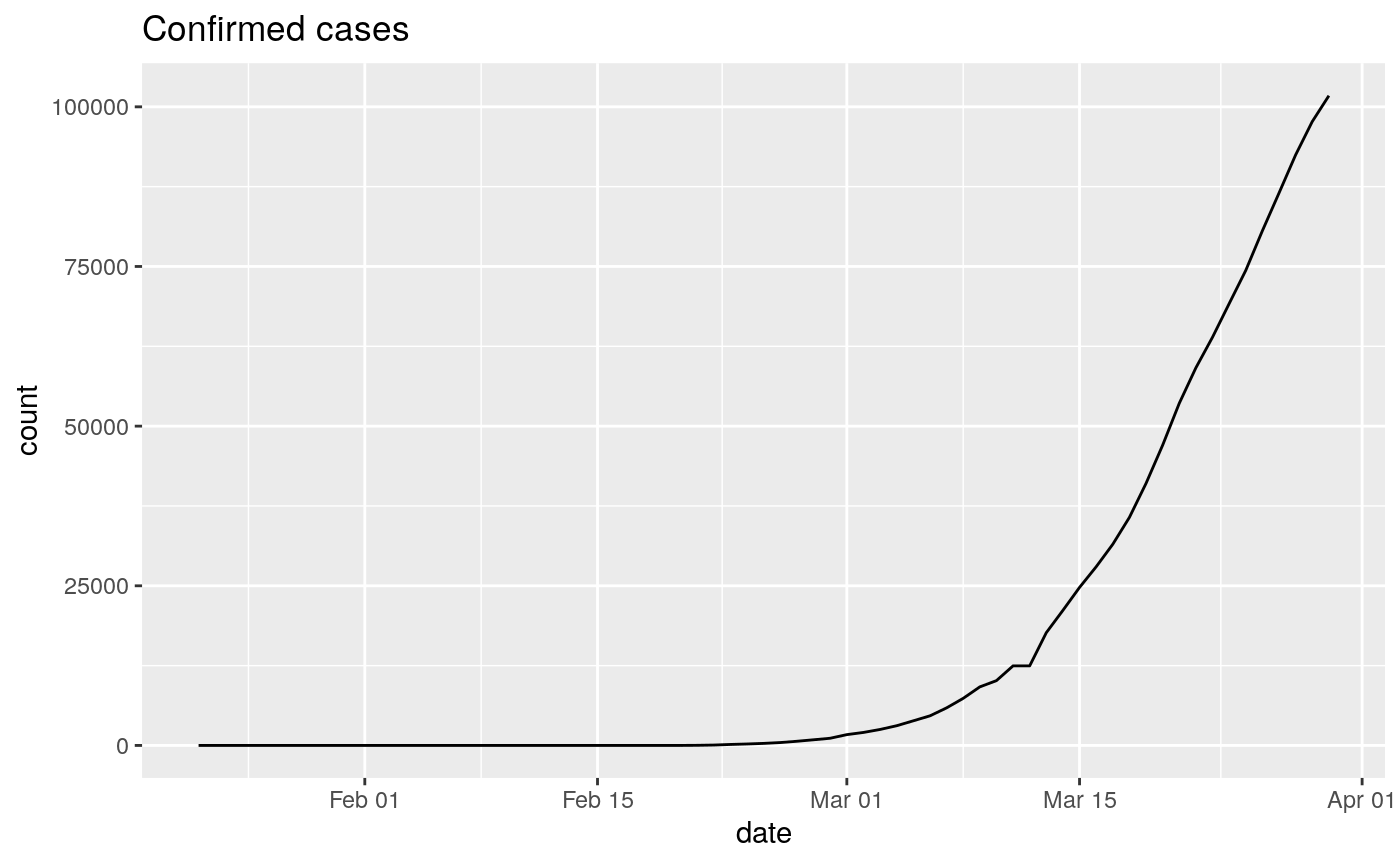
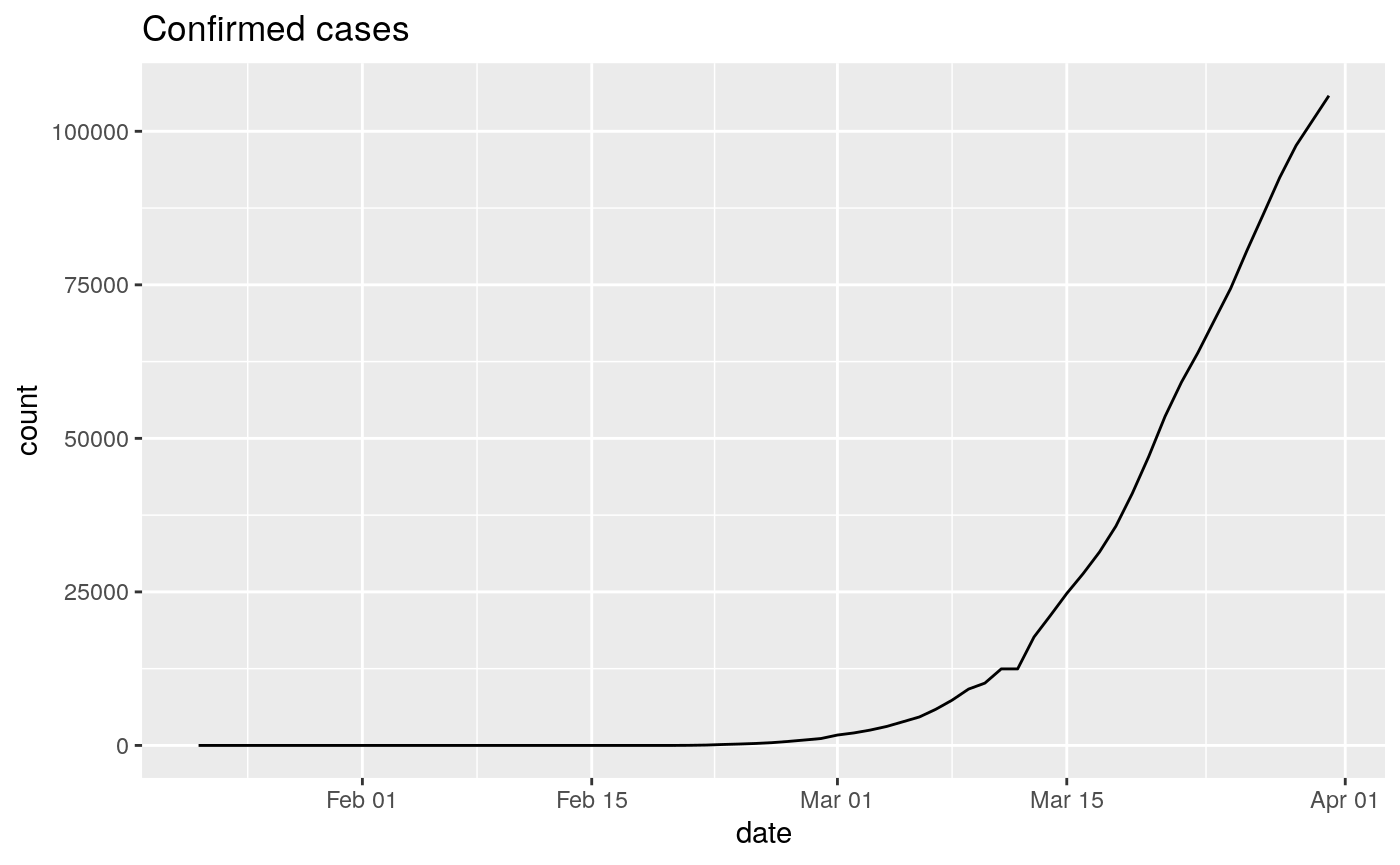
Deploying to gh-pages from  @ e3c42bbe8d9de7d2e896ce2c8601e3526ad87e3b 🚀

diff --git a/articles/sars2pack.html b/articles/sars2pack.html
@@ -86,7 +86,7 @@
       <h1 data-toc-skip>Exploring the COVID-19 pandemic using sars2pack</h1>
                         <h4 class="author">Sean Davis <a href="mailto:seandavi@gmail.com" class="email">seandavi@gmail.com</a> and Vincent J. Carey, stvjc at channing.harvard.edu</h4>
             
-            <h4 class="date">March 31, 2020</h4>
+            <h4 class="date">April 01, 2020</h4>
       
       <small class="dont-index">Source: <a href="https://github.com/seandavi/sars2pack/blob/master/vignettes/sars2pack.Rmd"><code>vignettes/sars2pack.Rmd</code></a></small>
       <div class="hidden name"><code>sars2pack.Rmd</code></div>
@@ -163,7 +163,7 @@
 <span class="fu"><a href="https://rdrr.io/r/base/class.html">class</a></span>(<span class="no">jhu</span>)</pre></body></html></div>
 <pre><code>## [1] "tbl_df"     "tbl"        "data.frame"</code></pre>
 <div class="sourceCode" id="cb4"><html><body><pre class="r"><span class="fu"><a href="https://rdrr.io/r/base/dim.html">dim</a></span>(<span class="no">jhu</span>)</pre></body></html></div>
-<pre><code>## [1] 35052     7</code></pre>
+<pre><code>## [1] 35840     7</code></pre>
 <p>Column names include:</p>
 <div class="sourceCode" id="cb6"><html><body><pre class="r"><span class="fu"><a href="https://rdrr.io/r/base/colnames.html">colnames</a></span>(<span class="no">jhu</span>)</pre></body></html></div>
 <pre><code>## [1] "ProvinceState" "CountryRegion" "Lat"           "Long"         
@@ -181,11 +181,11 @@
 <h3 class="hasAnchor">
 <a href="#usafacts-dataset" class="anchor"></a>USAFacts Dataset</h3>
 <div class="sourceCode" id="cb10"><html><body><pre class="r"><span class="no">usa_facts</span> <span class="kw">=</span> <span class="fu"><a href="../reference/usa_facts_data.html">usa_facts_data</a></span>()</pre></body></html></div>
-<pre><code>## using temporary cache /tmp/RtmpnPCkWf/BiocFileCache</code></pre>
+<pre><code>## using temporary cache /tmp/RtmpY2dX5Z/BiocFileCache</code></pre>
 <div class="sourceCode" id="cb12"><html><body><pre class="r"><span class="fu"><a href="https://rdrr.io/r/base/class.html">class</a></span>(<span class="no">usa_facts</span>)</pre></body></html></div>
 <pre><code>## [1] "tbl_df"     "tbl"        "data.frame"</code></pre>
 <div class="sourceCode" id="cb14"><html><body><pre class="r"><span class="fu"><a href="https://rdrr.io/r/base/dim.html">dim</a></span>(<span class="no">usa_facts</span>)</pre></body></html></div>
-<pre><code>## [1] 441186      7</code></pre>
+<pre><code>## [1] 882096      7</code></pre>
 <p>Column names include:</p>
 <div class="sourceCode" id="cb16"><html><body><pre class="r"><span class="fu"><a href="https://rdrr.io/r/base/colnames.html">colnames</a></span>(<span class="no">usa_facts</span>)</pre></body></html></div>
 <pre><code>## [1] "county_fips" "state"       "State"       "state_fips"  "subset"     
@@ -249,12 +249,12 @@
 <li><strong>How many records are in the dataset?</strong></li>
 </ul>
 <div class="sourceCode" id="cb36"><html><body><pre class="r"><span class="fu"><a href="https://rdrr.io/r/base/nrow.html">nrow</a></span>(<span class="no">jhu</span>)</pre></body></html></div>
-<pre><code>## [1] 35052</code></pre>
+<pre><code>## [1] 35840</code></pre>
 <ul>
 <li><strong>How many different countries are represented?</strong></li>
 </ul>
 <div class="sourceCode" id="cb38"><html><body><pre class="r"><span class="fu"><a href="https://rdrr.io/r/base/length.html">length</a></span>(<span class="fu"><a href="https://rdrr.io/r/base/unique.html">unique</a></span>(<span class="no">jhu</span>$<span class="no">CountryRegion</span>))</pre></body></html></div>
-<pre><code>## [1] 178</code></pre>
+<pre><code>## [1] 180</code></pre>
 <p>Most records have no listing for <code>ProvinceState</code> column. Let’s look at a few of those to get an idea of what is there when not empty:</p>
 <ul>
 <li><strong>What is in the <code>ProvinceState</code> column?</strong></li>
@@ -290,8 +290,8 @@
     <span class="kw pkg">dplyr</span><span class="kw ns">::</span><span class="fu"><a href="https://dplyr.tidyverse.org/reference/slice.html">slice</a></span>(<span class="fu"><a href="https://rdrr.io/r/base/which.min.html">which.max</a></span>(<span class="no">date</span>)) <span class="kw">%&gt;%</span>
     <span class="kw pkg">dplyr</span><span class="kw ns">::</span><span class="fu"><a href="https://dplyr.tidyverse.org/reference/arrange.html">arrange</a></span>(<span class="fu">desc</span>(<span class="no">count</span>))
 <span class="kw pkg">DT</span><span class="kw ns">::</span><span class="fu"><a href="https://rdrr.io/pkg/DT/man/datatable.html">datatable</a></span>(<span class="no">latest_jhu_data</span>, <span class="kw">rownames</span><span class="kw">=</span><span class="fl">FALSE</span>)</pre></body></html></div>
-<div id="htmlwidget-8c06b6ed5150550f0219" style="width:100%;height:auto;" class="datatables html-widget"></div>
-<script type="application/json" data-for="htmlwidget-8c06b6ed5150550f0219">{"x":{"filter":"none","data":[[null,null,null,null,null,null,null,null,null,null,null,null,null,null,null,null,null,null,null,null,null,null,null,null,null,null,null,null,null,null,null,null,null,null,null,null,null,null,null,null,null,null,null,null,null,null,null,null,null,null,null,null,null,null,null,null,null,null,null,null,null,null,null,null,null,null,null,null,null,null,null,null,null,null,null,null,null,null,null,null,null,null,null,null,null,null,null,null,null,null,null,null,null,null,null,null,null,null,null,null,null,null,null,null,null,null,null,null,null,null,null,null,null,null,null,null,null,null,null,null,null,null,null,null,null,null,null,null,null,null,null,null,null,null,null,null,null,null,null,null,null,null,null,null,null,null,null,null,null,null,null,null,null,null,null,null,null,null,null,null,null,null,null,null,null,null,null,null,null,null,null,null,null,null,null],["US","Italy","Spain","Germany","France","Iran","United Kingdom","Switzerland","Belgium","Netherlands","Turkey","Korea, South","Austria","Portugal","Israel","Brazil","Norway","Sweden","Czechia","Ireland","Malaysia","Denmark","Chile","Romania","Poland","Luxembourg","Ecuador","Japan","Russia","Pakistan","Philippines","Thailand","Saudi Arabia","Indonesia","Finland","South Africa","India","Greece","Iceland","Mexico","Panama","Peru","Dominican Republic","Singapore","Argentina","Colombia","Croatia","Serbia","Slovenia","Estonia","Diamond Princess","Qatar","Egypt","Iraq","United Arab Emirates","New Zealand","Algeria","Morocco","Ukraine","Bahrain","Lithuania","Armenia","Hungary","Lebanon","Latvia","Andorra","Bosnia and Herzegovina","Bulgaria","Slovakia","Costa Rica","Tunisia","Uruguay","Taiwan*","Kazakhstan","Moldova","North Macedonia","Azerbaijan","Jordan","Kuwait","Burkina Faso","Cyprus","San Marino","Albania","Vietnam","Oman","Afghanistan","Cuba","Cote d'Ivoire","Senegal","Malta","Belarus","Ghana","Uzbekistan","Cameroon","Honduras","Venezuela","Nigeria","Mauritius","Brunei","Sri Lanka","West Bank and Gaza","Cambodia","Georgia","Bolivia","Kosovo","Kyrgyzstan","Montenegro","Trinidad and Tobago","Congo (Kinshasa)","Rwanda","Paraguay","Liechtenstein","Kenya","Bangladesh","Monaco","Madagascar","Guatemala","Jamaica","Zambia","Barbados","Uganda","El Salvador","Togo","Niger","Mali","Ethiopia","Guinea","Congo (Brazzaville)","Tanzania","Djibouti","Maldives","Haiti","Bahamas","Burma","Equatorial Guinea","Eritrea","Mongolia","Dominica","Namibia","Syria","Eswatini","Grenada","Saint Lucia","Guinea-Bissau","Guyana","Laos","Libya","Mozambique","Seychelles","Suriname","Angola","Antigua and Barbuda","Gabon","Saint Kitts and Nevis","Zimbabwe","Benin","Cabo Verde","Holy See","Sudan","Chad","Fiji","Mauritania","Nepal","Bhutan","Gambia","Nicaragua","Belize","Botswana","Central African Republic","Liberia","Somalia","MS Zaandam","Papua New Guinea","Saint Vincent and the Grenadines","Timor-Leste"],[37.0902,43,40,51,46.2276,32,55.3781,46.8182,50.8333,52.1326,38.9637,36,47.5162,39.3999,31,-14.235,60.472,63,49.8175,53.1424,2.5,56.2639,-35.6751,45.9432,51.9194,49.8153,-1.8312,36,60,30.3753,13,15,24,-0.7893,64,-30.5595,21,39.0742,64.9631,23.6345,8.538,-9.19,18.7357,1.2833,-38.4161,4.5709,45.1,44.0165,46.1512,58.5953,0,25.3548,26,33,24,-40.9006,28.0339,31.7917,48.3794,26.0275,55.1694,40.0691,47.1625,33.8547,56.8796,42.5063,43.9159,42.7339,48.669,9.7489,34,-32.5228,23.7,48.0196,47.4116,41.6086,40.1431,31.24,29.5,12.2383,35.1264,43.9424,41.1533,16,21,33,22,7.54,14.4974,35.9375,53.7098,7.9465,41.3775,3.848,15.2,6.4238,9.082,-20.2,4.5353,7,31.9522,11.55,42.3154,-16.2902,42.602636,41.2044,42.5,10.6918,-4.0383,-1.9403,-23.4425,47.14,-0.0236,23.685,43.7333,-18.7669,15.7835,18.1096,-15.4167,13.1939,1,13.7942,8.6195,17.6078,17.570692,9.145,9.9456,-4.0383,-6.369,11.8251,3.2028,18.9712,25.0343,21.9162,1.5,15.1794,46.8625,15.415,-22.9576,34.802075,-26.5225,12.1165,13.9094,11.8037,5,19.85627,26.3351,-18.665695,-4.6796,3.9193,-11.2027,17.0608,-0.8037,17.357822,-20,9.3077,16.5388,41.9029,12.8628,15.4542,-17.7134,21.0079,28.1667,27.5142,13.4432,12.8654,13.1939,-22.3285,6.6111,6.4281,5.1521,0,-6.315,12.9843,-8.874217],[-95.7129,12,-4,9,2.2137,53,-3.436,8.2275,4,5.2913,35.2433,128,14.5501,-8.2245,35,-51.9253,8.4689,16,15.473,-7.6921,112.5,9.5018,-71.543,24.9668,19.1451,6.1296,-78.1834,138,90,69.3451,122,101,45,113.9213,26,22.9375,78,21.8243,-19.0208,-102.5528,-80.7821,-75.0152,-70.1627,103.8333,-63.6167,-74.2973,15.2,21.0059,14.9955,25.0136,0,51.1839,30,44,54,174.886,1.6596,-7.0926,31.1656,50.55,23.8813,45.0382,19.5033,35.8623,24.6032,1.5218,17.6791,25.4858,19.699,-83.7534,9,-55.7658,121,66.9237,28.3699,21.7453,47.5769,36.51,47.75,-1.5616,33.4299,12.4578,20.1683,108,57,65,-80,-5.5471,-14.4524,14.3754,27.9534,-1.0232,64.5853,11.5021,-86.2419,-66.5897,8.6753,57.5,114.7277,81,35.2332,104.9167,43.3569,-63.5887,20.902977,74.7661,19.3,-61.2225,21.7587,29.8739,-58.4438,9.55,37.9062,90.3563,7.4167,46.8691,-90.2308,-77.2975,28.2833,-59.5432,32,-88.8965,0.8248,8.0817,-3.996166,40.4897,-9.6966,21.7587,34.8888,42.5903,73.2207,-72.2852,-77.3963,95.956,10,39.7823,103.8467,-61.371,18.4904,38.996815,31.4659,-61.679,-60.9789,-15.1804,-58.75,102.495496,17.228331,35.529562,55.492,-56.0278,17.8739,-61.7964,11.6094,-62.782998,30,2.3158,-23.0418,12.4534,30.2176,18.7322,178.065,10.9408,84.25,90.4336,-15.3101,-85.2072,-59.5432,24.6849,20.9394,-9.4295,46.1996,0,143.9555,-61.2872,125.727539],["2020-03-30","2020-03-30","2020-03-30","2020-03-30","2020-03-30","2020-03-30","2020-03-30","2020-03-30","2020-03-30","2020-03-30","2020-03-30","2020-03-30","2020-03-30","2020-03-30","2020-03-30","2020-03-30","2020-03-30","2020-03-30","2020-03-30","2020-03-30","2020-03-30","2020-03-30","2020-03-30","2020-03-30","2020-03-30","2020-03-30","2020-03-30","2020-03-30","2020-03-30","2020-03-30","2020-03-30","2020-03-30","2020-03-30","2020-03-30","2020-03-30","2020-03-30","2020-03-30","2020-03-30","2020-03-30","2020-03-30","2020-03-30","2020-03-30","2020-03-30","2020-03-30","2020-03-30","2020-03-30","2020-03-30","2020-03-30","2020-03-30","2020-03-30","2020-03-30","2020-03-30","2020-03-30","2020-03-30","2020-03-30","2020-03-30","2020-03-30","2020-03-30","2020-03-30","2020-03-30","2020-03-30","2020-03-30","2020-03-30","2020-03-30","2020-03-30","2020-03-30","2020-03-30","2020-03-30","2020-03-30","2020-03-30","2020-03-30","2020-03-30","2020-03-30","2020-03-30","2020-03-30","2020-03-30","2020-03-30","2020-03-30","2020-03-30","2020-03-30","2020-03-30","2020-03-30","2020-03-30","2020-03-30","2020-03-30","2020-03-30","2020-03-30","2020-03-30","2020-03-30","2020-03-30","2020-03-30","2020-03-30","2020-03-30","2020-03-30","2020-03-30","2020-03-30","2020-03-30","2020-03-30","2020-03-30","2020-03-30","2020-03-30","2020-03-30","2020-03-30","2020-03-30","2020-03-30","2020-03-30","2020-03-30","2020-03-30","2020-03-30","2020-03-30","2020-03-30","2020-03-30","2020-03-30","2020-03-30","2020-03-30","2020-03-30","2020-03-30","2020-03-30","2020-03-30","2020-03-30","2020-03-30","2020-03-30","2020-03-30","2020-03-30","2020-03-30","2020-03-30","2020-03-30","2020-03-30","2020-03-30","2020-03-30","2020-03-30","2020-03-30","2020-03-30","2020-03-30","2020-03-30","2020-03-30","2020-03-30","2020-03-30","2020-03-30","2020-03-30","2020-03-30","2020-03-30","2020-03-30","2020-03-30","2020-03-30","2020-03-30","2020-03-30","2020-03-30","2020-03-30","2020-03-30","2020-03-30","2020-03-30","2020-03-30","2020-03-30","2020-03-30","2020-03-30","2020-03-30","2020-03-30","2020-03-30","2020-03-30","2020-03-30","2020-03-30","2020-03-30","2020-03-30","2020-03-30","2020-03-30","2020-03-30","2020-03-30","2020-03-30","2020-03-30","2020-03-30","2020-03-30","2020-03-30","2020-03-30","2020-03-30"],[161807,101739,87956,66885,44550,41495,22141,15922,11899,11750,10827,9661,9618,6408,4695,4579,4445,4028,3001,2910,2626,2577,2449,2109,2055,1988,1962,1866,1836,1717,1546,1524,1453,1414,1352,1326,1251,1212,1086,993,989,950,901,879,820,798,790,785,756,715,712,693,656,630,611,589,584,556,548,515,491,482,447,446,376,370,368,359,336,330,312,310,306,302,298,285,273,268,266,246,230,230,223,203,179,170,170,168,162,156,152,152,149,139,139,135,131,128,127,122,116,107,103,97,94,94,91,82,81,70,64,62,50,49,49,43,36,36,35,33,33,30,30,27,25,23,22,19,19,18,17,15,14,14,12,12,12,11,11,10,9,9,9,8,8,8,8,8,8,8,7,7,7,7,7,6,6,6,6,5,5,5,5,4,4,4,3,3,3,3,3,2,1,1,1],["confirmed","confirmed","confirmed","confirmed","confirmed","confirmed","confirmed","confirmed","confirmed","confirmed","confirmed","confirmed","confirmed","confirmed","confirmed","confirmed","confirmed","confirmed","confirmed","confirmed","confirmed","confirmed","confirmed","confirmed","confirmed","confirmed","confirmed","confirmed","confirmed","confirmed","confirmed","confirmed","confirmed","confirmed","confirmed","confirmed","confirmed","confirmed","confirmed","confirmed","confirmed","confirmed","confirmed","confirmed","confirmed","confirmed","confirmed","confirmed","confirmed","confirmed","confirmed","confirmed","confirmed","confirmed","confirmed","confirmed","confirmed","confirmed","confirmed","confirmed","confirmed","confirmed","confirmed","confirmed","confirmed","confirmed","confirmed","confirmed","confirmed","confirmed","confirmed","confirmed","confirmed","confirmed","confirmed","confirmed","confirmed","confirmed","confirmed","confirmed","confirmed","confirmed","confirmed","confirmed","confirmed","confirmed","confirmed","confirmed","confirmed","confirmed","confirmed","confirmed","confirmed","confirmed","confirmed","confirmed","confirmed","confirmed","confirmed","confirmed","confirmed","confirmed","confirmed","confirmed","confirmed","confirmed","confirmed","confirmed","confirmed","confirmed","confirmed","confirmed","confirmed","confirmed","confirmed","confirmed","confirmed","confirmed","confirmed","confirmed","confirmed","confirmed","confirmed","confirmed","confirmed","confirmed","confirmed","confirmed","confirmed","confirmed","confirmed","confirmed","confirmed","confirmed","confirmed","confirmed","confirmed","confirmed","confirmed","confirmed","confirmed","confirmed","confirmed","confirmed","confirmed","confirmed","confirmed","confirmed","confirmed","confirmed","confirmed","confirmed","confirmed","confirmed","confirmed","confirmed","confirmed","confirmed","confirmed","confirmed","confirmed","confirmed","confirmed","confirmed","confirmed","confirmed","confirmed","confirmed","confirmed","confirmed","confirmed","confirmed","confirmed","confirmed","confirmed"]],"container":"<table class=\"display\">\n  <thead>\n    <tr>\n      <th>ProvinceState<\/th>\n      <th>CountryRegion<\/th>\n      <th>Lat<\/th>\n      <th>Long<\/th>\n      <th>date<\/th>\n      <th>count<\/th>\n      <th>subset<\/th>\n    <\/tr>\n  <\/thead>\n<\/table>","options":{"columnDefs":[{"className":"dt-right","targets":[2,3,5]}],"order":[],"autoWidth":false,"orderClasses":false}},"evals":[],"jsHooks":[]}</script><p><strong>Note</strong>: I included a little <code>is.na</code> in the filtering above to remove records where country data are split out over subparts. We revisit this below.</p>
+<div id="htmlwidget-5872c2ad368f4b4c4cd0" style="width:100%;height:auto;" class="datatables html-widget"></div>
+<script type="application/json" data-for="htmlwidget-5872c2ad368f4b4c4cd0">{"x":{"filter":"none","data":[[null,null,null,null,null,null,null,null,null,null,null,null,null,null,null,null,null,null,null,null,null,null,null,null,null,null,null,null,null,null,null,null,null,null,null,null,null,null,null,null,null,null,null,null,null,null,null,null,null,null,null,null,null,null,null,null,null,null,null,null,null,null,null,null,null,null,null,null,null,null,null,null,null,null,null,null,null,null,null,null,null,null,null,null,null,null,null,null,null,null,null,null,null,null,null,null,null,null,null,null,null,null,null,null,null,null,null,null,null,null,null,null,null,null,null,null,null,null,null,null,null,null,null,null,null,null,null,null,null,null,null,null,null,null,null,null,null,null,null,null,null,null,null,null,null,null,null,null,null,null,null,null,null,null,null,null,null,null,null,null,null,null,null,null,null,null,null,null,null,null,null,null,null,null,null,null,null],["US","Italy","Spain","Germany","France","Iran","United Kingdom","Switzerland","Turkey","Belgium","Netherlands","Austria","Korea, South","Portugal","Brazil","Israel","Norway","Sweden","Czechia","Ireland","Denmark","Malaysia","Chile","Russia","Poland","Romania","Ecuador","Luxembourg","Philippines","Japan","Pakistan","Thailand","Saudi Arabia","Indonesia","Finland","India","South Africa","Greece","Panama","Iceland","Dominican Republic","Mexico","Peru","Argentina","Singapore","Colombia","Serbia","Croatia","Slovenia","Qatar","Estonia","Algeria","Diamond Princess","Egypt","Iraq","United Arab Emirates","New Zealand","Ukraine","Morocco","Bahrain","Lithuania","Armenia","Hungary","Lebanon","Bosnia and Herzegovina","Bulgaria","Latvia","Tunisia","Andorra","Slovakia","Moldova","Costa Rica","Kazakhstan","Uruguay","North Macedonia","Taiwan*","Azerbaijan","Kuwait","Jordan","Cyprus","Burkina Faso","Albania","San Marino","Vietnam","Cameroon","Oman","Cuba","Cote d'Ivoire","Senegal","Afghanistan","Uzbekistan","Malta","Ghana","Belarus","Mauritius","Sri Lanka","Honduras","Nigeria","Venezuela","Brunei","West Bank and Gaza","Kosovo","Georgia","Cambodia","Montenegro","Bolivia","Kyrgyzstan","Congo (Kinshasa)","Trinidad and Tobago","Rwanda","Liechtenstein","Paraguay","Kenya","Madagascar","Monaco","Bangladesh","Uganda","Guatemala","Jamaica","Zambia","Barbados","Togo","El Salvador","Djibouti","Mali","Niger","Ethiopia","Guinea","Congo (Brazzaville)","Tanzania","Maldives","Gabon","Burma","Eritrea","Haiti","Bahamas","Saint Lucia","Dominica","Equatorial Guinea","Guyana","Mongolia","Namibia","Libya","Seychelles","Syria","Benin","Eswatini","Grenada","Laos","Suriname","Guinea-Bissau","Mozambique","Saint Kitts and Nevis","Zimbabwe","Angola","Antigua and Barbuda","Chad","Sudan","Cabo Verde","Holy See","Mauritania","Fiji","Nepal","Nicaragua","Somalia","Bhutan","Botswana","Gambia","Belize","Central African Republic","Liberia","Burundi","MS Zaandam","Papua New Guinea","Saint Vincent and the Grenadines","Sierra Leone","Timor-Leste"],[37.0902,43,40,51,46.2276,32,55.3781,46.8182,38.9637,50.8333,52.1326,47.5162,36,39.3999,-14.235,31,60.472,63,49.8175,53.1424,56.2639,2.5,-35.6751,60,51.9194,45.9432,-1.8312,49.8153,13,36,30.3753,15,24,-0.7893,64,21,-30.5595,39.0742,8.538,64.9631,18.7357,23.6345,-9.19,-38.4161,1.2833,4.5709,44.0165,45.1,46.1512,25.3548,58.5953,28.0339,0,26,33,24,-40.9006,48.3794,31.7917,26.0275,55.1694,40.0691,47.1625,33.8547,43.9159,42.7339,56.8796,34,42.5063,48.669,47.4116,9.7489,48.0196,-32.5228,41.6086,23.7,40.1431,29.5,31.24,35.1264,12.2383,41.1533,43.9424,16,3.848,21,22,7.54,14.4974,33,41.3775,35.9375,7.9465,53.7098,-20.2,7,15.2,9.082,6.4238,4.5353,31.9522,42.602636,42.3154,11.55,42.5,-16.2902,41.2044,-4.0383,10.6918,-1.9403,47.14,-23.4425,-0.0236,-18.7669,43.7333,23.685,1,15.7835,18.1096,-15.4167,13.1939,8.6195,13.7942,11.8251,17.570692,17.6078,9.145,9.9456,-4.0383,-6.369,3.2028,-0.8037,21.9162,15.1794,18.9712,25.0343,13.9094,15.415,1.5,5,46.8625,-22.9576,26.3351,-4.6796,34.802075,9.3077,-26.5225,12.1165,19.85627,3.9193,11.8037,-18.665695,17.357822,-20,-11.2027,17.0608,15.4542,12.8628,16.5388,41.9029,21.0079,-17.7134,28.1667,12.8654,5.1521,27.5142,-22.3285,13.4432,13.1939,6.6111,6.4281,-3.3731,0,-6.315,12.9843,8.460555,-8.874217],[-95.7129,12,-4,9,2.2137,53,-3.436,8.2275,35.2433,4,5.2913,14.5501,128,-8.2245,-51.9253,35,8.4689,16,15.473,-7.6921,9.5018,112.5,-71.543,90,19.1451,24.9668,-78.1834,6.1296,122,138,69.3451,101,45,113.9213,26,78,22.9375,21.8243,-80.7821,-19.0208,-70.1627,-102.5528,-75.0152,-63.6167,103.8333,-74.2973,21.0059,15.2,14.9955,51.1839,25.0136,1.6596,0,30,44,54,174.886,31.1656,-7.0926,50.55,23.8813,45.0382,19.5033,35.8623,17.6791,25.4858,24.6032,9,1.5218,19.699,28.3699,-83.7534,66.9237,-55.7658,21.7453,121,47.5769,47.75,36.51,33.4299,-1.5616,20.1683,12.4578,108,11.5021,57,-80,-5.5471,-14.4524,65,64.5853,14.3754,-1.0232,27.9534,57.5,81,-86.2419,8.6753,-66.5897,114.7277,35.2332,20.902977,43.3569,104.9167,19.3,-63.5887,74.7661,21.7587,-61.2225,29.8739,9.55,-58.4438,37.9062,46.8691,7.4167,90.3563,32,-90.2308,-77.2975,28.2833,-59.5432,0.8248,-88.8965,42.5903,-3.996166,8.0817,40.4897,-9.6966,21.7587,34.8888,73.2207,11.6094,95.956,39.7823,-72.2852,-77.3963,-60.9789,-61.371,10,-58.75,103.8467,18.4904,17.228331,55.492,38.996815,2.3158,31.4659,-61.679,102.495496,-56.0278,-15.1804,35.529562,-62.782998,30,17.8739,-61.7964,18.7322,30.2176,-23.0418,12.4534,10.9408,178.065,84.25,-85.2072,46.1996,90.4336,24.6849,-15.3101,-59.5432,20.9394,-9.4295,29.9189,0,143.9555,-61.2872,-11.779889,125.727539],["2020-03-31","2020-03-31","2020-03-31","2020-03-31","2020-03-31","2020-03-31","2020-03-31","2020-03-31","2020-03-31","2020-03-31","2020-03-31","2020-03-31","2020-03-31","2020-03-31","2020-03-31","2020-03-31","2020-03-31","2020-03-31","2020-03-31","2020-03-31","2020-03-31","2020-03-31","2020-03-31","2020-03-31","2020-03-31","2020-03-31","2020-03-31","2020-03-31","2020-03-31","2020-03-31","2020-03-31","2020-03-31","2020-03-31","2020-03-31","2020-03-31","2020-03-31","2020-03-31","2020-03-31","2020-03-31","2020-03-31","2020-03-31","2020-03-31","2020-03-31","2020-03-31","2020-03-31","2020-03-31","2020-03-31","2020-03-31","2020-03-31","2020-03-31","2020-03-31","2020-03-31","2020-03-31","2020-03-31","2020-03-31","2020-03-31","2020-03-31","2020-03-31","2020-03-31","2020-03-31","2020-03-31","2020-03-31","2020-03-31","2020-03-31","2020-03-31","2020-03-31","2020-03-31","2020-03-31","2020-03-31","2020-03-31","2020-03-31","2020-03-31","2020-03-31","2020-03-31","2020-03-31","2020-03-31","2020-03-31","2020-03-31","2020-03-31","2020-03-31","2020-03-31","2020-03-31","2020-03-31","2020-03-31","2020-03-31","2020-03-31","2020-03-31","2020-03-31","2020-03-31","2020-03-31","2020-03-31","2020-03-31","2020-03-31","2020-03-31","2020-03-31","2020-03-31","2020-03-31","2020-03-31","2020-03-31","2020-03-31","2020-03-31","2020-03-31","2020-03-31","2020-03-31","2020-03-31","2020-03-31","2020-03-31","2020-03-31","2020-03-31","2020-03-31","2020-03-31","2020-03-31","2020-03-31","2020-03-31","2020-03-31","2020-03-31","2020-03-31","2020-03-31","2020-03-31","2020-03-31","2020-03-31","2020-03-31","2020-03-31","2020-03-31","2020-03-31","2020-03-31","2020-03-31","2020-03-31","2020-03-31","2020-03-31","2020-03-31","2020-03-31","2020-03-31","2020-03-31","2020-03-31","2020-03-31","2020-03-31","2020-03-31","2020-03-31","2020-03-31","2020-03-31","2020-03-31","2020-03-31","2020-03-31","2020-03-31","2020-03-31","2020-03-31","2020-03-31","2020-03-31","2020-03-31","2020-03-31","2020-03-31","2020-03-31","2020-03-31","2020-03-31","2020-03-31","2020-03-31","2020-03-31","2020-03-31","2020-03-31","2020-03-31","2020-03-31","2020-03-31","2020-03-31","2020-03-31","2020-03-31","2020-03-31","2020-03-31","2020-03-31","2020-03-31","2020-03-31","2020-03-31","2020-03-31","2020-03-31","2020-03-31","2020-03-31","2020-03-31"],[188172,105792,95923,71808,52128,44605,25150,16605,13531,12775,12595,10180,9786,7443,5717,5358,4641,4435,3308,3235,2860,2766,2738,2337,2311,2245,2240,2178,2084,1953,1938,1651,1563,1528,1418,1397,1353,1314,1181,1135,1109,1094,1065,1054,926,906,900,867,802,781,745,716,712,710,694,664,647,645,617,567,537,532,492,470,420,399,398,394,376,363,353,347,343,338,329,322,298,289,274,262,261,243,236,212,193,192,186,179,175,174,172,169,161,152,143,143,141,135,135,129,119,112,110,109,109,107,107,98,87,75,68,65,59,57,52,51,44,38,36,35,34,34,32,30,28,27,26,22,19,19,18,16,15,15,15,14,13,12,12,12,12,11,10,10,10,9,9,9,9,9,8,8,8,8,7,7,7,7,6,6,6,5,5,5,5,4,4,4,3,3,3,2,2,1,1,1,1],["confirmed","confirmed","confirmed","confirmed","confirmed","confirmed","confirmed","confirmed","confirmed","confirmed","confirmed","confirmed","confirmed","confirmed","confirmed","confirmed","confirmed","confirmed","confirmed","confirmed","confirmed","confirmed","confirmed","confirmed","confirmed","confirmed","confirmed","confirmed","confirmed","confirmed","confirmed","confirmed","confirmed","confirmed","confirmed","confirmed","confirmed","confirmed","confirmed","confirmed","confirmed","confirmed","confirmed","confirmed","confirmed","confirmed","confirmed","confirmed","confirmed","confirmed","confirmed","confirmed","confirmed","confirmed","confirmed","confirmed","confirmed","confirmed","confirmed","confirmed","confirmed","confirmed","confirmed","confirmed","confirmed","confirmed","confirmed","confirmed","confirmed","confirmed","confirmed","confirmed","confirmed","confirmed","confirmed","confirmed","confirmed","confirmed","confirmed","confirmed","confirmed","confirmed","confirmed","confirmed","confirmed","confirmed","confirmed","confirmed","confirmed","confirmed","confirmed","confirmed","confirmed","confirmed","confirmed","confirmed","confirmed","confirmed","confirmed","confirmed","confirmed","confirmed","confirmed","confirmed","confirmed","confirmed","confirmed","confirmed","confirmed","confirmed","confirmed","confirmed","confirmed","confirmed","confirmed","confirmed","confirmed","confirmed","confirmed","confirmed","confirmed","confirmed","confirmed","confirmed","confirmed","confirmed","confirmed","confirmed","confirmed","confirmed","confirmed","confirmed","confirmed","confirmed","confirmed","confirmed","confirmed","confirmed","confirmed","confirmed","confirmed","confirmed","confirmed","confirmed","confirmed","confirmed","confirmed","confirmed","confirmed","confirmed","confirmed","confirmed","confirmed","confirmed","confirmed","confirmed","confirmed","confirmed","confirmed","confirmed","confirmed","confirmed","confirmed","confirmed","confirmed","confirmed","confirmed","confirmed","confirmed","confirmed","confirmed","confirmed","confirmed","confirmed","confirmed","confirmed","confirmed"]],"container":"<table class=\"display\">\n  <thead>\n    <tr>\n      <th>ProvinceState<\/th>\n      <th>CountryRegion<\/th>\n      <th>Lat<\/th>\n      <th>Long<\/th>\n      <th>date<\/th>\n      <th>count<\/th>\n      <th>subset<\/th>\n    <\/tr>\n  <\/thead>\n<\/table>","options":{"columnDefs":[{"className":"dt-right","targets":[2,3,5]}],"order":[],"autoWidth":false,"orderClasses":false}},"evals":[],"jsHooks":[]}</script><p><strong>Note</strong>: I included a little <code>is.na</code> in the filtering above to remove records where country data are split out over subparts. We revisit this below.</p>
 <p>The data here could be usefully displayed as a graph as well.</p>
 <div class="sourceCode" id="cb43"><html><body><pre class="r"><span class="fu"><a href="https://rdrr.io/r/graphics/par.html">par</a></span>(<span class="kw">las</span><span class="kw">=</span><span class="fl">2</span>, <span class="kw">mar</span><span class="kw">=</span><span class="fu"><a href="https://rdrr.io/r/base/c.html">c</a></span>(<span class="fl">8</span>,<span class="fl">5</span>,<span class="fl">5</span>,<span class="fl">1</span>))
 <span class="fu"><a href="https://rdrr.io/r/graphics/barplot.html">barplot</a></span>(<span class="no">count</span> ~ <span class="no">CountryRegion</span>, <span class="kw">xlab</span> <span class="kw">=</span> <span class="st">''</span>,

diff --git a/reference/form_incident_events.html b/reference/form_incident_events.html
@@ -149,14 +149,14 @@
     <pre class="examples"><div class='input'><span class='fu'><a href='https://rdrr.io/r/base/warning.html'>suppressWarnings</a></span>({<span class='no'>dat</span> <span class='kw'>=</span> <span class='fu'><a href='enriched_jhu_data.html'>enriched_jhu_data</a></span>()})
 <span class='no'>cusa</span> <span class='kw'>=</span> <span class='fu'><a href='cumulative_events_ejhu.html'>cumulative_events_ejhu</a></span>(<span class='no'>dat</span>, <span class='kw'>eventtype</span><span class='kw'>=</span><span class='st'>"confirmed"</span>,
  <span class='kw'>alpha3</span><span class='kw'>=</span><span class='st'>"USA"</span>)
-<span class='no'>cusa</span></div><div class='output co'>#&gt; cumulative event data for USA, 2020-01-22 to 2020-03-30 
+<span class='no'>cusa</span></div><div class='output co'>#&gt; cumulative event data for USA, 2020-01-22 to 2020-03-31 
 #&gt; use plot() to visualize.</div><div class='input'><span class='no'>cusa</span> <span class='kw'>=</span> <span class='fu'><a href='trim_from.html'>trim_from</a></span>(<span class='no'>cusa</span>, <span class='st'>"2020-03-01"</span>)
 <span class='no'>iusa</span> <span class='kw'>=</span> <span class='fu'>form_incident_events</span>(<span class='no'>cusa</span>)
 <span class='fu'><a href='https://rdrr.io/r/graphics/plot.html'>plot</a></span>(<span class='no'>iusa</span>)</div><div class='img'><img src='form_incident_events-1.png' alt='' width='700' height='433' /></div><div class='input'><span class='no'>gt</span> <span class='kw'>=</span> <span class='kw pkg'>R0</span><span class='kw ns'>::</span><span class='fu'><a href='https://rdrr.io/pkg/R0/man/generation.time.html'>generation.time</a></span>(<span class='st'>"gamma"</span>, <span class='fu'><a href='https://rdrr.io/r/base/c.html'>c</a></span>(<span class='fl'>3.5</span>, <span class='fl'>4.8</span>))
 <span class='no'>est1</span> <span class='kw'>=</span> <span class='kw pkg'>R0</span><span class='kw ns'>::</span><span class='fu'><a href='https://rdrr.io/pkg/R0/man/estimate.R.html'>estimate.R</a></span>( <span class='no'>iusa</span>$<span class='no'>count</span>, <span class='kw'>GT</span><span class='kw'>=</span><span class='no'>gt</span>,
    <span class='kw'>t</span><span class='kw'>=</span><span class='no'>iusa</span>$<span class='no'>dates</span>, <span class='kw'>begin</span><span class='kw'>=</span><span class='no'>iusa</span>$<span class='no'>dates</span>[<span class='fl'>1</span>], <span class='kw'>end</span><span class='kw'>=</span><span class='no'>iusa</span>$<span class='no'>dates</span>[<span class='fu'><a href='https://rdrr.io/r/base/length.html'>length</a></span>(<span class='no'>iusa</span>$<span class='no'>dates</span>)],
    <span class='kw'>methods</span><span class='kw'>=</span><span class='st'>"EG"</span>)</div><div class='output co'>#&gt; <span class='message'>Waiting for profiling to be done...</span></div><div class='input'><span class='no'>est1</span></div><div class='output co'>#&gt; Reproduction number estimate using  Exponential Growth  method.
-#&gt; R :  2.137538[ 2.130939 , 2.144163 ]
+#&gt; R :  2.082058[ 2.076259 , 2.087879 ]
 #&gt; </div><div class='input'><span class='fu'><a href='plot2.html'>plot2</a></span>(<span class='no'>est1</span>)</div><div class='img'><img src='form_incident_events-2.png' alt='' width='700' height='433' /></div><div class='input'><span class='fu'><a href='plotfit2.html'>plotfit2</a></span>(<span class='no'>est1</span>)</div><div class='img'><img src='form_incident_events-3.png' alt='' width='700' height='433' /></div></pre>
   </div>
   <div class="col-md-3 hidden-xs hidden-sm" id="pkgdown-sidebar">

diff --git a/reference/jhu_data_to_excel.html b/reference/jhu_data_to_excel.html
@@ -181,7 +181,7 @@ an excel format of data to folks more familiar with excel than
 with R.</p>
 
     <h2 class="hasAnchor" id="examples"><a class="anchor" href="#examples"></a>Examples</h2>
-    <pre class="examples"><div class='input'><span class='no'>xls_form</span> <span class='kw'>=</span> <span class='fu'>jhu_data_to_excel</span>()</div><div class='output co'>#&gt; <span class='warning'>Warning: Some values were not matched unambiguously: MS Zaandam</span></div><div class='output co'>#&gt; <span class='warning'>Warning: Some values were not matched unambiguously: MS Zaandam</span></div><div class='input'><span class='fu'><a href='https://rdrr.io/r/base/names.html'>names</a></span>(<span class='no'>xls_form</span>)</div><div class='output co'>#&gt; [1] "confirmed" "deaths"   </div><div class='input'><span class='fu'><a href='https://rdrr.io/r/utils/head.html'>head</a></span>(<span class='no'>xls_form</span><span class='kw'>[[</span><span class='fl'>1</span>]])</div><div class='output co'>#&gt; # A tibble: 6 x 86
+    <pre class="examples"><div class='input'><span class='no'>xls_form</span> <span class='kw'>=</span> <span class='fu'>jhu_data_to_excel</span>()</div><div class='output co'>#&gt; <span class='warning'>Warning: Some values were not matched unambiguously: MS Zaandam</span></div><div class='output co'>#&gt; <span class='warning'>Warning: Some values were not matched unambiguously: MS Zaandam</span></div><div class='input'><span class='fu'><a href='https://rdrr.io/r/base/names.html'>names</a></span>(<span class='no'>xls_form</span>)</div><div class='output co'>#&gt; [1] "confirmed" "deaths"   </div><div class='input'><span class='fu'><a href='https://rdrr.io/r/utils/head.html'>head</a></span>(<span class='no'>xls_form</span><span class='kw'>[[</span><span class='fl'>1</span>]])</div><div class='output co'>#&gt; # A tibble: 6 x 87
 #&gt;   name  topLevelDomain alpha2Code alpha3Code capital region subregion population
 #&gt;   &lt;chr&gt; &lt;list&gt;         &lt;chr&gt;      &lt;chr&gt;      &lt;chr&gt;   &lt;chr&gt;  &lt;chr&gt;          &lt;int&gt;
 #&gt; 1 Afgh… &lt;chr [1]&gt;      AF         AFG        Kabul   Asia   Southern…   27657145
@@ -190,7 +190,7 @@ with R.</p>
 #&gt; 4 Ando… &lt;chr [1]&gt;      AD         AND        Andorr… Europe Southern…      78014
 #&gt; 5 Ango… &lt;chr [1]&gt;      AO         AGO        Luanda  Africa Middle A…   25868000
 #&gt; 6 Anti… &lt;chr [1]&gt;      AG         ATG        Saint … Ameri… Caribbean      86295
-#&gt; # … with 78 more variables: area &lt;dbl&gt;, gini &lt;dbl&gt;, borders &lt;list&gt;,
+#&gt; # … with 79 more variables: area &lt;dbl&gt;, gini &lt;dbl&gt;, borders &lt;list&gt;,
 #&gt; #   numericCode &lt;chr&gt;, cioc &lt;chr&gt;, ProvinceState &lt;chr&gt;, CountryRegion &lt;chr&gt;,
 #&gt; #   Lat &lt;dbl&gt;, Long &lt;dbl&gt;, `2020-01-22` &lt;dbl&gt;, `2020-01-23` &lt;dbl&gt;,
 #&gt; #   `2020-01-24` &lt;dbl&gt;, `2020-01-25` &lt;dbl&gt;, `2020-01-26` &lt;dbl&gt;,
@@ -215,7 +215,7 @@ with R.</p>
 #&gt; #   `2020-03-21` &lt;dbl&gt;, `2020-03-22` &lt;dbl&gt;, `2020-03-23` &lt;dbl&gt;,
 #&gt; #   `2020-03-24` &lt;dbl&gt;, `2020-03-25` &lt;dbl&gt;, `2020-03-26` &lt;dbl&gt;,
 #&gt; #   `2020-03-27` &lt;dbl&gt;, `2020-03-28` &lt;dbl&gt;, `2020-03-29` &lt;dbl&gt;,
-#&gt; #   `2020-03-30` &lt;dbl&gt;</div><div class='input'>
+#&gt; #   `2020-03-30` &lt;dbl&gt;, `2020-03-31` &lt;dbl&gt;</div><div class='input'>
 </div></pre>
   </div>
   <div class="col-md-3 hidden-xs hidden-sm" id="pkgdown-sidebar">

diff --git a/reference/covidtracker_data.html b/reference/covidtracker_data.html
@@ -187,20 +187,20 @@ district currently reporting that data.</p>
 #&gt; <span class='message'>  negativeIncrease = col_double(),</span>
 #&gt; <span class='message'>  positiveIncrease = col_double(),</span>
 #&gt; <span class='message'>  totalTestResultsIncrease = col_double()</span>
-#&gt; <span class='message'>)</span></div><div class='output co'>#&gt; # A tibble: 1,373 x 9
+#&gt; <span class='message'>)</span></div><div class='output co'>#&gt; # A tibble: 1,429 x 9
 #&gt;    date       state positive negative pending hospitalized death
 #&gt;    &lt;date&gt;     &lt;chr&gt;    &lt;dbl&gt;    &lt;dbl&gt;   &lt;dbl&gt;        &lt;dbl&gt; &lt;dbl&gt;
-#&gt;  1 2020-03-30 AK         114     3540      NA            7     3
-#&gt;  2 2020-03-30 AL         859     5694      NA           NA     6
-#&gt;  3 2020-03-30 AR         473     5262      NA           62     7
-#&gt;  4 2020-03-30 AS          NA       NA      NA           NA     0
-#&gt;  5 2020-03-30 AZ        1157    15602      NA           78    20
-#&gt;  6 2020-03-30 CA        6447    20549   64400         1432   133
-#&gt;  7 2020-03-30 CO        2627    12737      NA          414    51
-#&gt;  8 2020-03-30 CT        2571    12029      NA          517    36
-#&gt;  9 2020-03-30 DC         401     2682       2           NA     9
-#&gt; 10 2020-03-30 DE         264     2216      NA           45     6
-#&gt; # … with 1,363 more rows, and 2 more variables: dateChecked &lt;dttm&gt;, fips &lt;chr&gt;</div><div class='input'>
+#&gt;  1 2020-03-31 AK         119     3594      NA            7     3
+#&gt;  2 2020-03-31 AL         981     6298      NA           NA    13
+#&gt;  3 2020-03-31 AR         523     5959      NA           64     8
+#&gt;  4 2020-03-31 AS          NA        3       2           NA     0
+#&gt;  5 2020-03-31 AZ        1289    18082      NA           78    24
+#&gt;  6 2020-03-31 CA        7482    21772   57400         1617   153
+#&gt;  7 2020-03-31 CO        2627    12737      NA          414    51
+#&gt;  8 2020-03-31 CT        3128    13029      NA          608    69
+#&gt;  9 2020-03-31 DC         495     3262       2           NA     9
+#&gt; 10 2020-03-31 DE         406     3696      NA           64    10
+#&gt; # … with 1,419 more rows, and 2 more variables: dateChecked &lt;dttm&gt;, fips &lt;chr&gt;</div><div class='input'>
 </div></pre>
   </div>
   <div class="col-md-3 hidden-xs hidden-sm" id="pkgdown-sidebar">

diff --git a/reference/cumulative_events_ejhu.html b/reference/cumulative_events_ejhu.html
@@ -166,7 +166,7 @@
     <pre class="examples"><div class='input'><span class='no'>dat</span> <span class='kw'>=</span> <span class='fu'><a href='enriched_jhu_data.html'>enriched_jhu_data</a></span>()</div><div class='output co'>#&gt; <span class='warning'>Warning: Some values were not matched unambiguously: MS Zaandam</span></div><div class='input'><span class='no'>cchn</span> <span class='kw'>=</span> <span class='fu'>cumulative_events_ejhu</span>(<span class='no'>dat</span>, <span class='kw'>alpha3</span><span class='kw'>=</span><span class='st'>"CHN"</span>, <span class='kw'>ProvinceStateName</span><span class='kw'>=</span><span class='st'>"Hubei"</span>)
 <span class='no'>ichn</span> <span class='kw'>=</span> <span class='fu'><a href='form_incident_events.html'>form_incident_events</a></span>(<span class='no'>cchn</span>)
 <span class='fu'><a href='https://rdrr.io/r/graphics/plot.html'>plot</a></span>(<span class='no'>cchn</span>$<span class='no'>count</span>[-<span class='fl'>1</span>], <span class='no'>ichn</span>$<span class='no'>count</span>, <span class='kw'>log</span><span class='kw'>=</span><span class='st'>"xy"</span>, <span class='kw'>xlab</span><span class='kw'>=</span><span class='st'>"cumulative"</span>, <span class='kw'>ylab</span><span class='kw'>=</span><span class='st'>"new"</span>,
- <span class='kw'>main</span><span class='kw'>=</span><span class='st'>"Hubei province"</span>) <span class='co'># like https://youtu.be/54XLXg4fYsc</span></div><div class='output co'>#&gt; <span class='warning'>Warning: 15 y values &lt;= 0 omitted from logarithmic plot</span></div><div class='img'><img src='cumulative_events_ejhu-1.png' alt='' width='700' height='433' /></div></pre>
+ <span class='kw'>main</span><span class='kw'>=</span><span class='st'>"Hubei province"</span>) <span class='co'># like https://youtu.be/54XLXg4fYsc</span></div><div class='output co'>#&gt; <span class='warning'>Warning: 16 y values &lt;= 0 omitted from logarithmic plot</span></div><div class='img'><img src='cumulative_events_ejhu-1.png' alt='' width='700' height='433' /></div></pre>
   </div>
   <div class="col-md-3 hidden-xs hidden-sm" id="pkgdown-sidebar">
     <nav id="toc" data-toggle="toc" class="sticky-top">

diff --git a/reference/us_county_geo_details.html b/reference/us_county_geo_details.html
@@ -153,7 +153,7 @@
 <code><a href='usa_facts_data.html'>usa_facts_data</a>()</code></p></div>
 
     <h2 class="hasAnchor" id="examples"><a class="anchor" href="#examples"></a>Examples</h2>
-    <pre class="examples"><div class='input'><span class='no'>usc</span> <span class='kw'>=</span> <span class='fu'>us_county_geo_details</span>()</div><div class='output co'>#&gt; <span class='message'>using temporary cache /tmp/RtmpRtaCy9/BiocFileCache</span></div><div class='input'><span class='kw pkg'>dplyr</span><span class='kw ns'>::</span><span class='fu'><a href='https://dplyr.tidyverse.org/reference/reexports.html'>glimpse</a></span>(<span class='no'>usc</span>)</div><div class='output co'>#&gt; Rows: 3,220
+    <pre class="examples"><div class='input'><span class='no'>usc</span> <span class='kw'>=</span> <span class='fu'>us_county_geo_details</span>()</div><div class='output co'>#&gt; <span class='message'>using temporary cache /tmp/RtmpSqTBRi/BiocFileCache</span></div><div class='input'><span class='kw pkg'>dplyr</span><span class='kw ns'>::</span><span class='fu'><a href='https://dplyr.tidyverse.org/reference/reexports.html'>glimpse</a></span>(<span class='no'>usc</span>)</div><div class='output co'>#&gt; Rows: 3,220
 #&gt; Columns: 9
 #&gt; $ state           &lt;chr&gt; "AL", "AL", "AL", "AL", "AL", "AL", "AL", "AL", "AL",…
 #&gt; $ fips            &lt;chr&gt; "01001", "01003", "01005", "01007", "01009", "01011",…

diff --git a/reference/enriched_jhu_data.html b/reference/enriched_jhu_data.html
@@ -179,7 +179,7 @@ and <code>recovered</code>.</p>
 #&gt; 6 Afgh… &lt;chr [1]&gt;      AF         AFG        Kabul   Asia   Southern…   27657145
 #&gt; # … with 12 more variables: area &lt;dbl&gt;, gini &lt;dbl&gt;, borders &lt;list&gt;,
 #&gt; #   numericCode &lt;chr&gt;, cioc &lt;chr&gt;, ProvinceState &lt;chr&gt;, CountryRegion &lt;chr&gt;,
-#&gt; #   Lat &lt;dbl&gt;, Long &lt;dbl&gt;, date &lt;date&gt;, count &lt;dbl&gt;, subset &lt;chr&gt;</div><div class='input'><span class='fu'><a href='https://dplyr.tidyverse.org/reference/reexports.html'>glimpse</a></span>(<span class='no'>res</span>)</div><div class='output co'>#&gt; Rows: 35,052
+#&gt; #   Lat &lt;dbl&gt;, Long &lt;dbl&gt;, date &lt;date&gt;, count &lt;dbl&gt;, subset &lt;chr&gt;</div><div class='input'><span class='fu'><a href='https://dplyr.tidyverse.org/reference/reexports.html'>glimpse</a></span>(<span class='no'>res</span>)</div><div class='output co'>#&gt; Rows: 35,840
 #&gt; Columns: 20
 #&gt; $ name           &lt;chr&gt; "Afghanistan", "Afghanistan", "Afghanistan", "Afghanis…
 #&gt; $ topLevelDomain &lt;list&gt; [".af", ".af", ".af", ".af", ".af", ".af", ".af", ".a…
